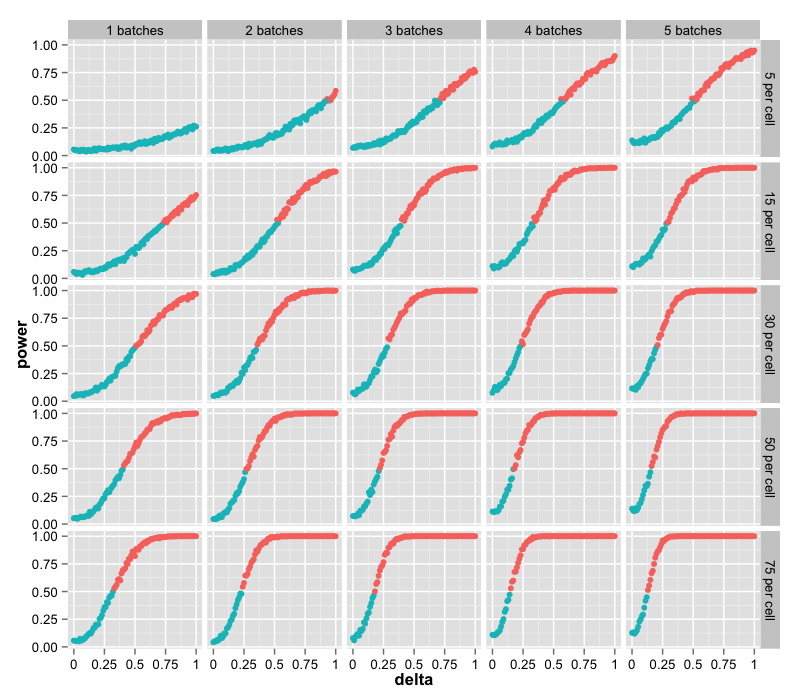
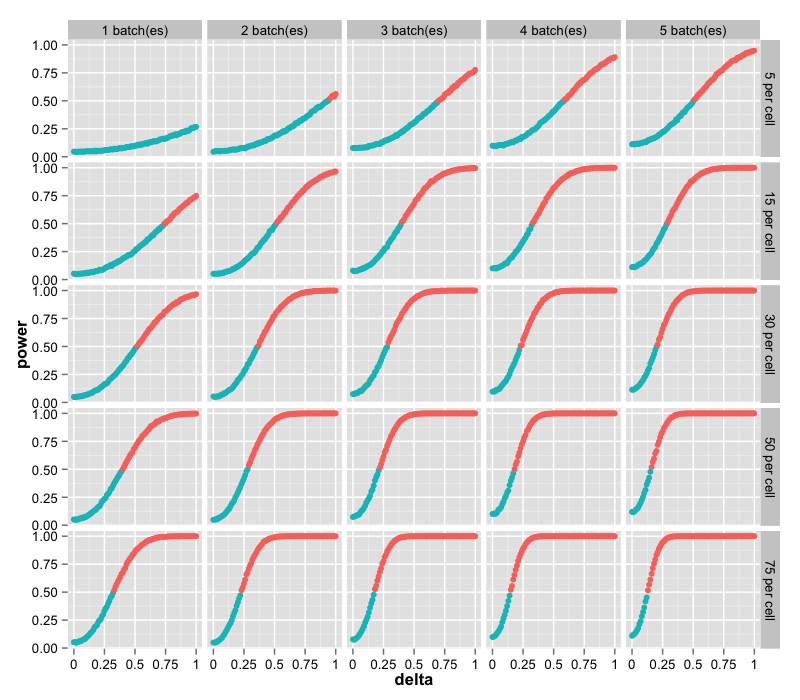
now with 10k sims

diff --git a/README.md b/README.md
@@ -6,7 +6,7 @@ function in four ways:
 
 1. Allow for testing two additional decision rules: 
   1. Continuing only if the means are in the predicted direction;
-  2. Stopping only when *p* < .05 has been observed a set number of times, either overall or in a row.
+  2. Stopping only when *p* < *p*<sub>crit</sub> has been observed a set number of times, either overall or in a row.
 2. Add an `output` argument that changes what is returned, either the original output (data frame of study results) or the proportion of studies returning a significant result.
 3. Add a `quiet` argument that allows running the function without printing summary results.
 4. Quiet the startup message for the psyc package.
@@ -18,4 +18,6 @@ function in four ways:
 * up to 1, 2, 3, 4, or 5 batches per study
 * *p*<sub>crit</sub> = .05
 * two-tailed *t*-tests
-* 1,000 studies per combination of delta, batch size, & number of batches
+* 10,000 studies per combination of delta, batch size, & number of batches
+
+At delta = 0, "power" is actually alpha
